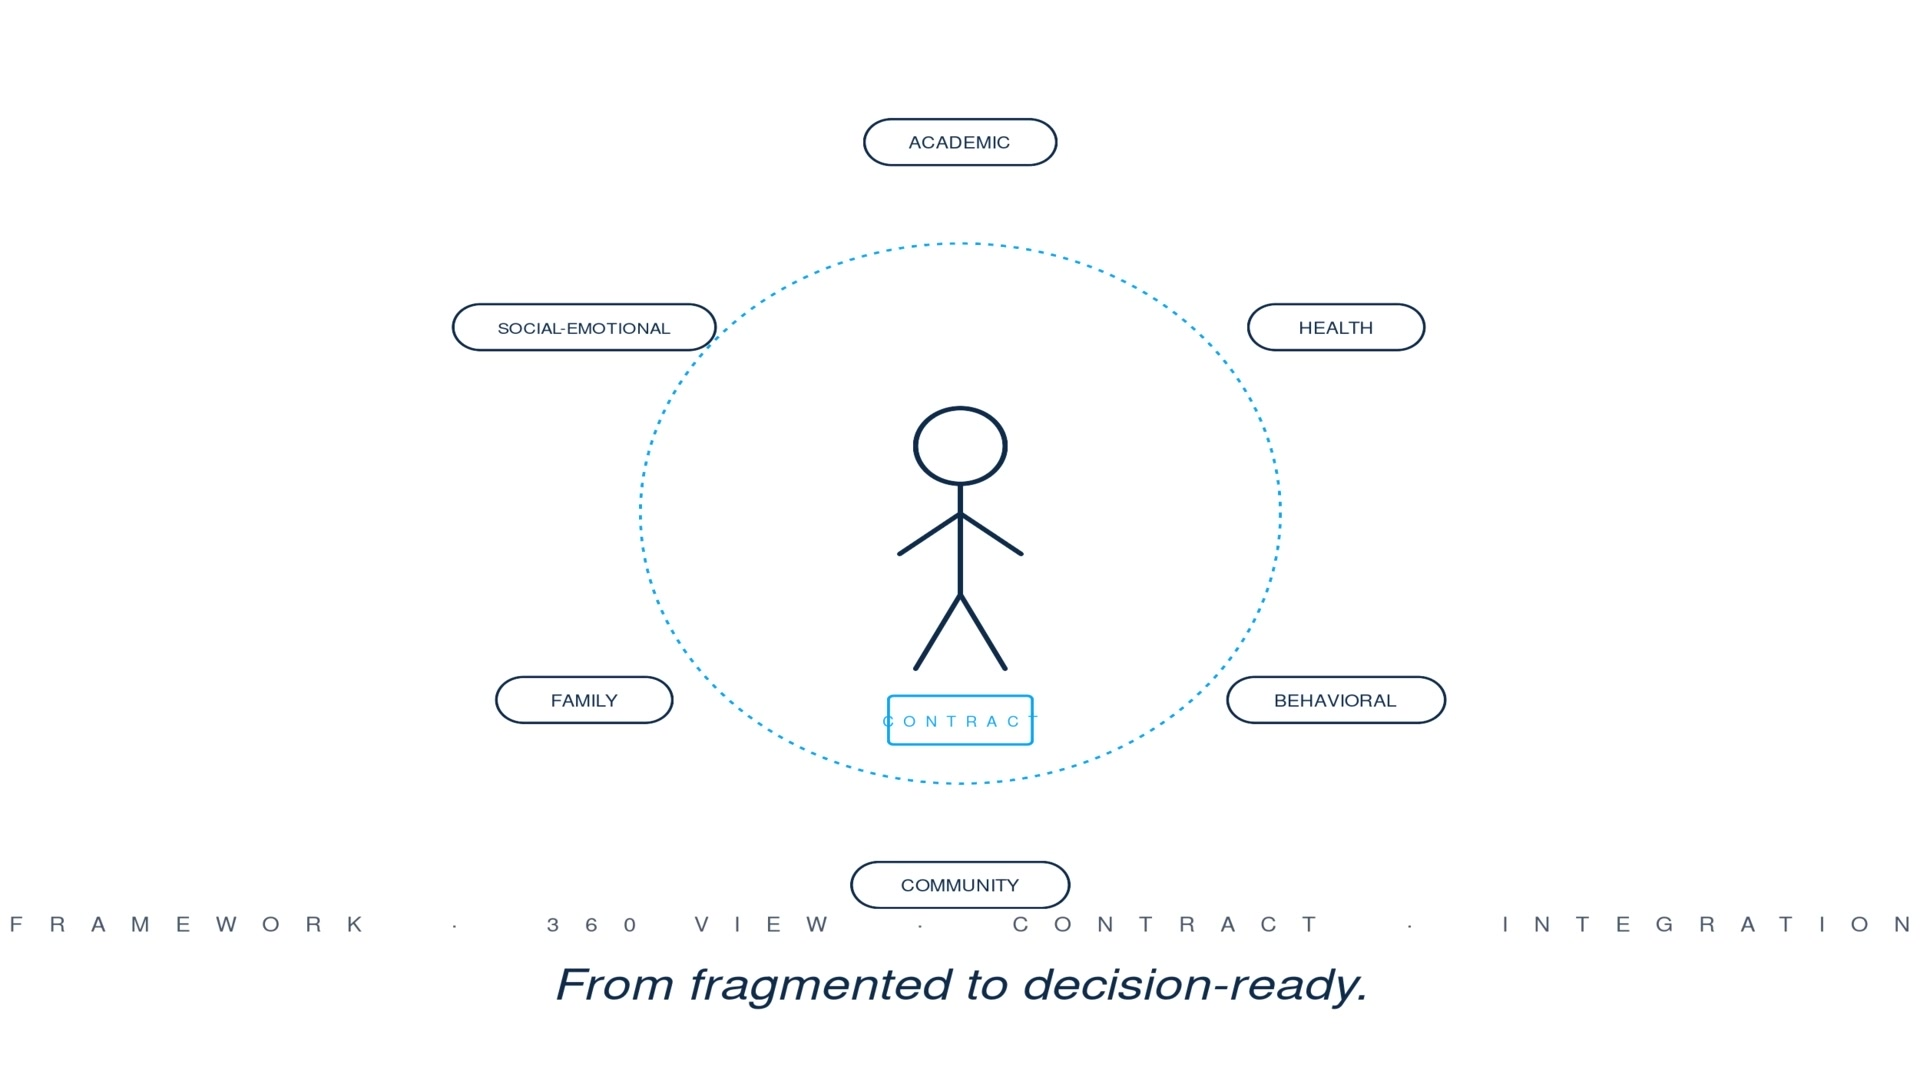
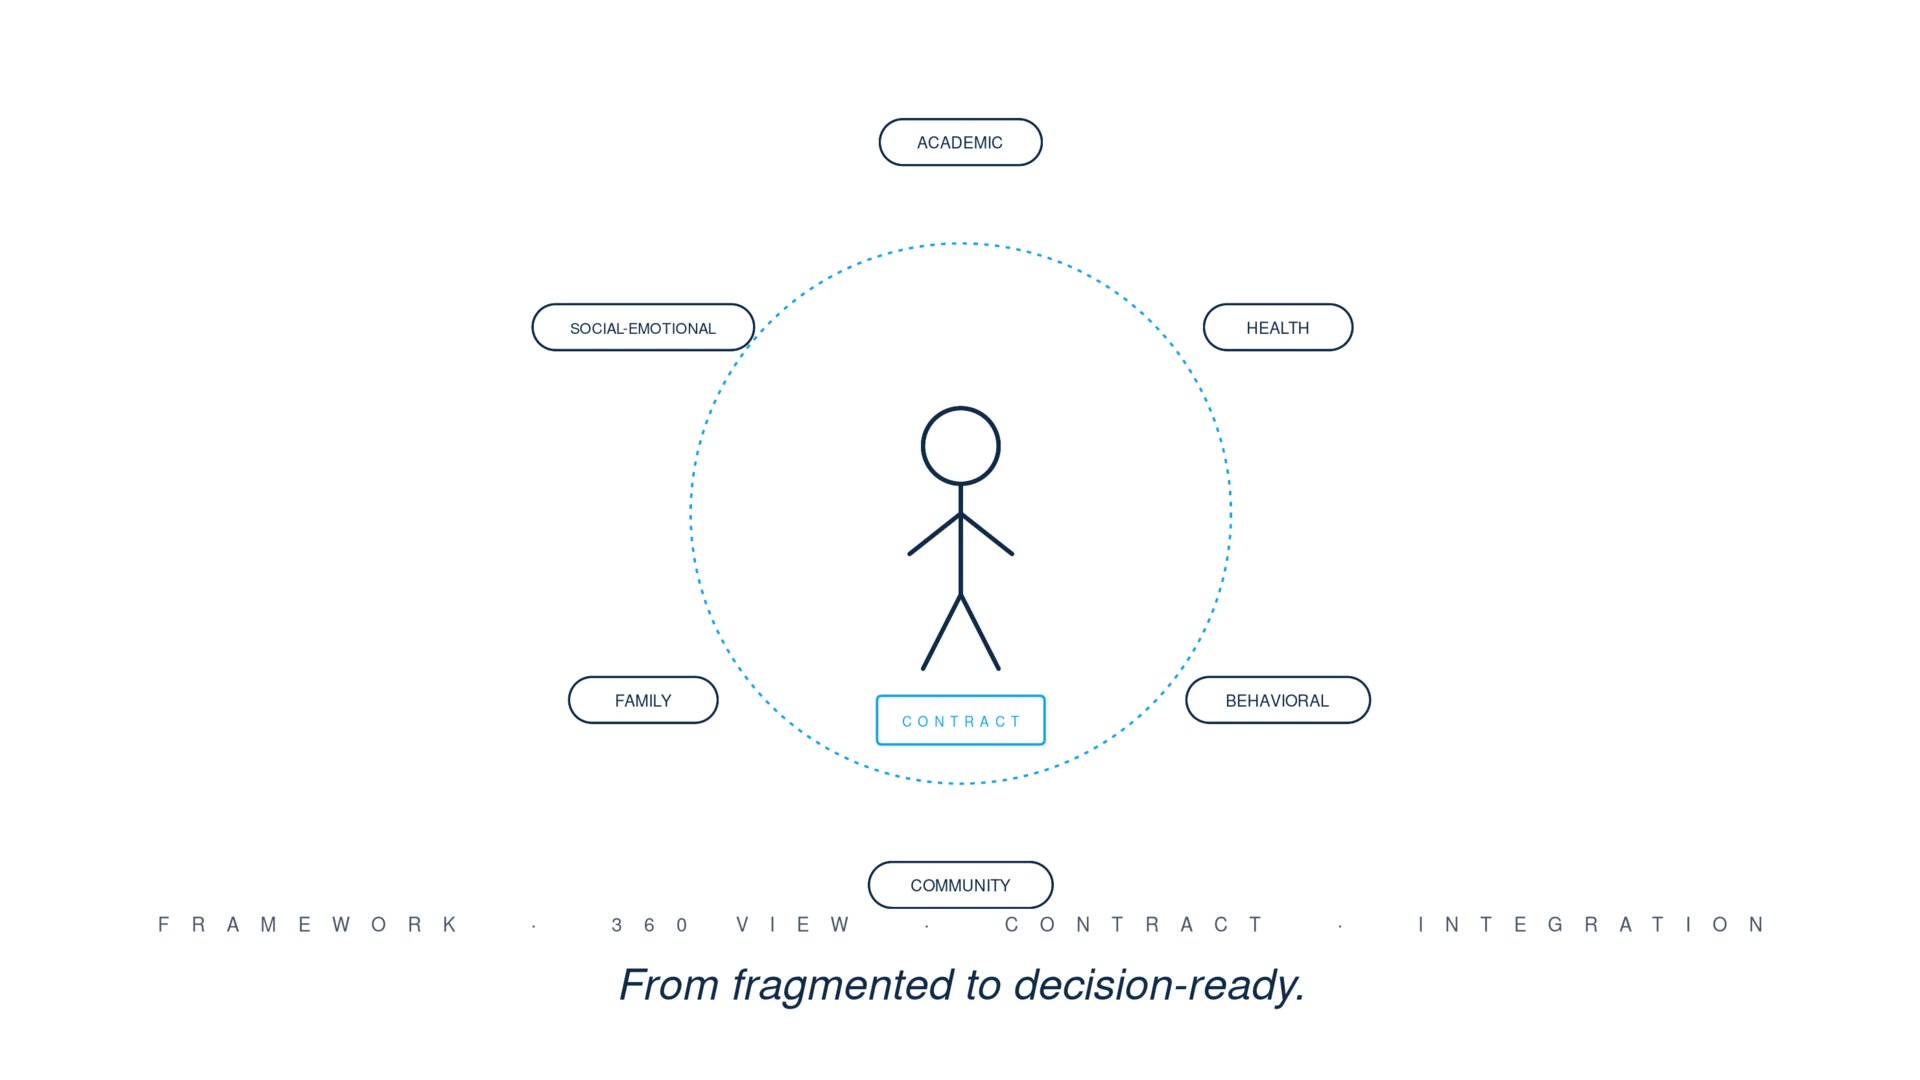
Add files via upload
video placement moved to proof

diff --git a/app/case-studies/page.tsx b/app/case-studies/page.tsx
@@ -24,17 +24,10 @@ type StackFlow = {
   decisionSurface: string[];
 };
 
-type Pillars = {
-  signals: string;
-  intelligence: string;
-  execution: string;
-};
-
 type CaseStudy = {
   id: string;
   sector: string;
   context: string;
-  pillars: Pillars;
   alreadyThere: string;
   missing: string;
   weBuilt: string;
@@ -49,14 +42,6 @@ const CASE_STUDIES: CaseStudy[] = [
     sector: "National mental health nonprofit",
     context:
       "Mental-health programs spanning 150+ high schools, 25+ school districts, 500+ college campuses, and growing community-based programs; 1.5M+ rows of multi-year survey assessments across students, faculty, and school/campus leadership.",
-    pillars: {
-      signals:
-        "Multi-year survey instrument reconciled across four to six versions into a semantic dataset; CDC Wonder warehoused for trend and subgroup analysis.",
-      intelligence:
-        "Executive analytics on program operations; burden-vs-disparity targeting view by state for grant strategy.",
-      execution:
-        "AI-assisted impact reporting tied to the theory-of-change, drafted from data instead of authored separately.",
-    },
     alreadyThere:
       "A Snowflake warehouse stood up by a vendor but stalled — dev/staging/prod schemas built but not in active use, Fivetran connections defined but not turned on. Multi-year survey data spanning four to six successive instrument versions sitting in Qualtrics. Salesforce capturing partnership phases, consultant caseloads, and assessment-cycle scheduling. Legacy operational data in Azure. A theory-of-change framework leadership already used to talk about impact.",
     missing:
@@ -85,14 +70,6 @@ const CASE_STUDIES: CaseStudy[] = [
     sector: "K–8 charter network",
     context:
       "Multi-site K-8 charter network in the Bronx — 5 sites serving ~1,800 students, the only single-gender public charter network in NYC; one site closing and another opening during the engagement; single-analyst team inherited after the prior data lead and compliance manager had departed.",
-    pillars: {
-      signals:
-        "Three reporting platforms consolidated into a governed Tableau Cloud foundation; semantic data layer built on Google Sheets around the missing BigQuery ETL.",
-      intelligence:
-        "Enrollment forecasting at 99% accuracy via ARIMA; dashboards refocused from daily attendance onto chronic absenteeism and persistence.",
-      execution:
-        "Recruitment funnel that ops, enrollment, and the call center could act on through the cycle — zipcode-targeted, tiered, delivered on a reduced budget.",
-    },
     alreadyThere:
       "Three reporting platforms running in parallel — Looker, Tableau Cloud, Tableau Public. Tableau Cloud licenses on the books for two years, mostly unused. Student-level academic dashboards on public infrastructure with no governance. Daily attendance reporting that duplicated what the SIS already showed. Google Sheets workflows running quietly under most decisions. HubSpot, SchoolMint, PowerSchool, NWEA MAP, Illuminate, Google Forms, MailChimp, and a call center workflow — all real, all uneven.",
     missing:
@@ -121,14 +98,6 @@ const CASE_STUDIES: CaseStudy[] = [
     sector: "Behavioral health nonprofit",
     context:
       "Nine clinics across Westchester and Rockland; CCBHC grant recipient; 3,300+ active clients; clinical, claims, program operations, and population data spanning multiple service lines.",
-    pillars: {
-      signals:
-        "HIPAA-compliant patient-360 integrating clinical assessments, 837i claims, HL7/CCDA hospital encounter feeds, program operations, HR/financials, and SDOH.",
-      intelligence:
-        "Instrument-level clinical dashboards; SDOH and chronic-condition risk scoring; NSDUH state prevalence integrated into the population-health view.",
-      execution:
-        "Mitram measurement-based care workflow with Otsuka — +40% engagement across two pilot waves after reminder automation and follow-ups.",
-    },
     alreadyThere:
       "Validated psychometric instruments (PHQ-9, GAD-7, C-SSRS Adult and Child, NIDA Quick Screen, CAGE-AID, plus SIS, PAQ, Q-LES-Q, FIBSER) historically captured at 3-month visits only. A smartphone app being piloted to collect these as patient-reported every 2 to 4 weeks instead — supporting measurement-based care between visits. 837i claims feeds across multiple payers (Beacon Health, Fidelis Care NY, Health First, Partners Health Plan, United Healthcare) sitting separately. HL7/CCDA hospital encounter feeds from regional EDs, uncoordinated. Program operations data across Article 31, OnTrack NY, and Health Home. HR and financials in their own systems. Demographic and zipcode-level data the org had access to but wasn't analyzing.",
     missing:
@@ -157,14 +126,6 @@ const CASE_STUDIES: CaseStudy[] = [
     sector: "Test-prep company",
     context:
       "National test-prep and tutoring brand with data dispersed across two legacy systems; test-prep alone spanned 6+ product lines (SAT/ACT/MCAT/GRE/GMAT/LSAT), 8+ channels, and multiple modalities; 300+ ad-hoc requests in queue on a legacy SQL/static-report environment.",
-    pillars: {
-      signals:
-        "Sisense ElastiCubes across booking analytics for six product lines and six channels; score-gain data restructured for cross-tier analysis.",
-      intelligence:
-        "Efficacy research on test-prep products by instructor, location/PSO, and tier; cross-functional decision support across A/B testing, customer profiling, and cancel/refund drivers.",
-      execution:
-        "Sisense as platform of record after a six-vendor evaluation; location-level enrollment data feeding leasing decisions; promotional-campaign performance feeding marketing.",
-    },
     alreadyThere:
       "A legacy SQL Server environment with 300+ ad-hoc requests for reports and insights in the queue. Three analytics FTEs plus roughly 10% of 30+ business-side FTEs spending time on manual data wrangling. A 55% annual reporting completion rate. A standing 8–12-request weekly inventory. Booking data flowing through six channels (Internet, Inbound Call, Local Office, Enrollment Advisor, Service Center, Marketing) across SAT/ACT/MCAT/GRE/GMAT/LSAT product lines. Score-gain data sitting unused for cross-tier analysis. Stakeholder voices across Product, Ops, Marketing that hadn't been collected into a single proposal.",
     missing:
@@ -191,14 +152,6 @@ const CASE_STUDIES: CaseStudy[] = [
     id: "founding-engagements",
     sector: "Early test-prep + university advisory",
     context: "Founding AB engagements (2016–2017): test-prep platform launch + university learning analytics.",
-    pillars: {
-      signals:
-        "Log-data measures designed for the NextGen test-prep platform; course outcome data structured for traditional vs. hybrid section comparison.",
-      intelligence:
-        "Conceptual dashboards as simulated charts; defensible outcomes-comparison frame across course modalities.",
-      execution:
-        "A measurement frame the product team could build the platform against; product decisions unblocked ahead of the warehouse.",
-    },
     alreadyThere:
       "Existing platform log data. Course-level student outcome data on the university side — traditional and hybrid sections of the same course running in parallel. Stakeholders thinking about a next-generation test-prep product without a measurement frame.",
     missing:
@@ -277,39 +230,6 @@ export default function CaseStudiesPage() {
           </div>
         </section>
 
-        {/* OPERATING FRAME — Signals · Intelligence · Execution, mirroring the About page */}
-        <section className="pb-16">
-          <div className="max-w-page mx-auto px-5 sm:px-8">
-            <Reveal>
-              <div className="border-t border-line pt-12 max-w-[68ch]">
-                <div className="font-mono text-[11px] text-ink-3 tracking-[0.18em] uppercase mb-6">
-                  What every case maps to
-                </div>
-                <div className="grid grid-cols-1 sm:grid-cols-3 gap-x-6 gap-y-6">
-                  {[
-                    { label: "Signals", line: "Measure what matters." },
-                    { label: "Intelligence", line: "Turn data into insight." },
-                    { label: "Execution", line: "Turn insight into action." },
-                  ].map((p) => (
-                    <div key={p.label} className="relative">
-                      <div className="font-mono text-[11px] text-accent tracking-[0.18em] uppercase mb-2">
-                        {p.label}
-                      </div>
-                      <div className="text-ink text-[15px] sm:text-[16px] font-medium leading-[1.5]">
-                        {p.line}
-                      </div>
-                    </div>
-                  ))}
-                </div>
-                <p className="text-ink-3 text-[14px] sm:text-[15px] leading-[1.6] mt-7 italic">
-                  Each case below names what it evidences across the three —
-                  before the situation, before the build, before the stack.
-                </p>
-              </div>
-            </Reveal>
-          </div>
-        </section>
-
         {/* TABLE OF CONTENTS — anchor links to each case */}
         <section className="pb-20">
           <div className="max-w-page mx-auto px-5 sm:px-8">
@@ -356,12 +276,9 @@ export default function CaseStudiesPage() {
                   <h2 className="font-extrabold tracking-[-0.025em] leading-[1.05] text-[28px] sm:text-[40px] lg:text-[52px] text-ink mb-4">
                     {cs.sector}
                   </h2>
-                  <p className="text-ink-2 text-[15px] sm:text-[16px] italic leading-[1.6] mb-10">
+                  <p className="text-ink-2 text-[15px] sm:text-[16px] italic leading-[1.6] mb-12">
                     {cs.context}
                   </p>
-
-                  {/* Pillar mapping — Signals · Intelligence · Execution */}
-                  <PillarMap pillars={cs.pillars} />
 
                   {/* What was already there */}
                   <CaseBlock label="What was already there" body={cs.alreadyThere} />
@@ -495,34 +412,6 @@ export default function CaseStudiesPage() {
 
       <Footer />
     </>
-  );
-}
-
-function PillarMap({ pillars }: { pillars: Pillars }) {
-  const rows: { label: string; body: string }[] = [
-    { label: "Signals", body: pillars.signals },
-    { label: "Intelligence", body: pillars.intelligence },
-    { label: "Execution", body: pillars.execution },
-  ];
-  return (
-    <div className="mb-12 border-l-2 border-accent pl-5 sm:pl-6">
-      <div className="font-mono text-[11px] text-accent tracking-[0.18em] uppercase mb-4">
-        What this case evidences
-      </div>
-      <ul className="list-none p-0 m-0 space-y-3">
-        {rows.map((r) => (
-          <li
-            key={r.label}
-            className="grid grid-cols-[105px_1fr] sm:grid-cols-[130px_1fr] gap-x-3 sm:gap-x-4 text-ink-2 text-[15px] sm:text-[16px] leading-[1.6]"
-          >
-            <span className="font-mono text-[11px] text-ink tracking-[0.18em] uppercase pt-[3px]">
-              {r.label}
-            </span>
-            <span>{r.body}</span>
-          </li>
-        ))}
-      </ul>
-    </div>
   );
 }
 

diff --git a/app/page.tsx b/app/page.tsx
@@ -127,37 +127,6 @@ export default function Home() {
           </div>
         </section>
 
-        {/* WHOLE-PERSON VIDEO — the 90-second visual thesis */}
-        <section className="pt-8 pb-24 sm:pt-12 sm:pb-32">
-          <div className="max-w-page mx-auto px-5 sm:px-8">
-            <Reveal>
-              <div className="font-mono text-[11px] text-accent tracking-[0.18em] uppercase mb-6">
-                The 90-second version
-              </div>
-              <video
-                src="/videos/AB_WholePersonStack_v1.mp4"
-                poster="/videos/AB_WholePersonStack_v1_poster.jpg"
-                autoPlay
-                muted
-                loop
-                playsInline
-                preload="metadata"
-                className="w-full h-auto rounded-lg border border-line"
-                aria-label="The AB whole-person stack: framework, 360 view, contract, integration. From fragmented to decision-ready."
-              />
-              <div className="mt-8 flex justify-end">
-                <a
-                  href="/library"
-                  className="inline-flex items-center gap-2 text-ink hover:text-accent transition-colors text-[14px] sm:text-[15px] font-semibold no-underline border-b border-line-2 hover:border-accent pb-1"
-                >
-                  Read the Library
-                  <span aria-hidden>→</span>
-                </a>
-              </div>
-            </Reveal>
-          </div>
-        </section>
-
         {/* 01 ARCHITECTURE */}
         <Architecture />
 
@@ -303,6 +272,30 @@ export default function Home() {
                 A system is not<br />the dashboard.<br />
                 <span className="text-accent">It&rsquo;s what happens after.</span>
               </h2>
+            </Reveal>
+          </div>
+        </section>
+
+        {/* WHOLE-PERSON VIDEO — sits between the Thesis statement and the
+            Proof of Work section. Reads as the visual answer to the Thesis
+            line above it, and as the primer for the 360 Views row below. */}
+        <section className="pt-8 pb-24 sm:pt-12 sm:pb-32">
+          <div className="max-w-page mx-auto px-5 sm:px-8">
+            <Reveal>
+              <div className="font-mono text-[11px] text-accent tracking-[0.18em] uppercase mb-8">
+                Seeing the person whole
+              </div>
+              <video
+                src="/videos/AB_WholePersonStack_v1.mp4"
+                poster="/videos/AB_WholePersonStack_v1_poster.jpg"
+                autoPlay
+                muted
+                loop
+                playsInline
+                preload="metadata"
+                className="w-full h-auto rounded-lg border border-line"
+                aria-label="Seeing the person whole — the AB framework, the 360 view, the governance contract, and the integration work. From fragmented to decision-ready."
+              />
             </Reveal>
           </div>
         </section>